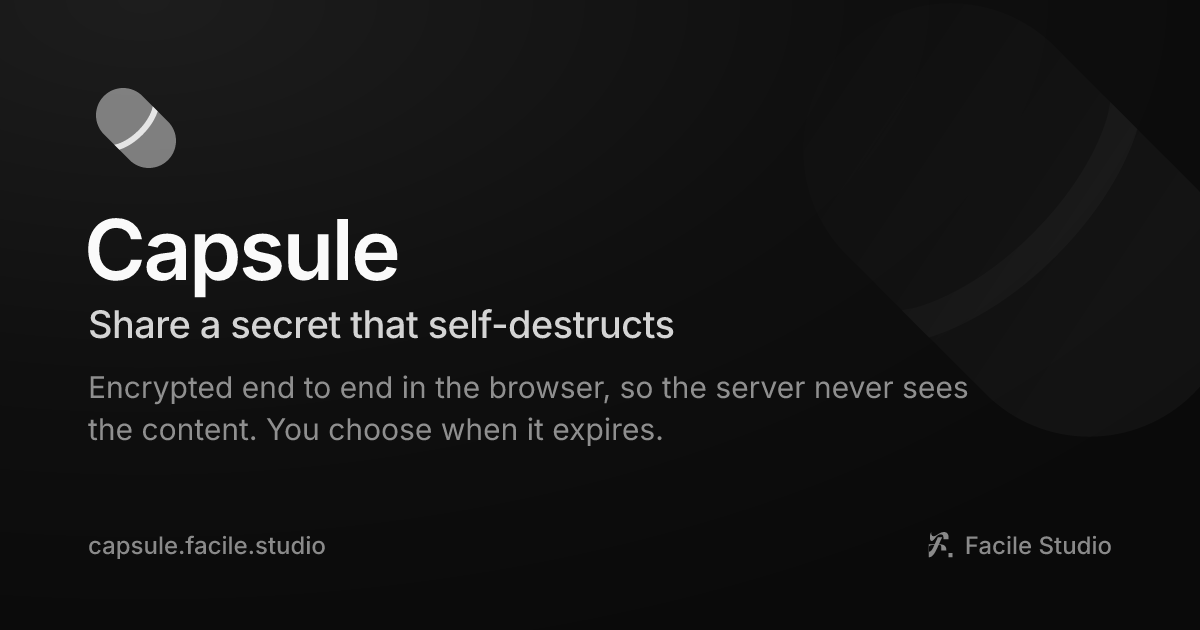
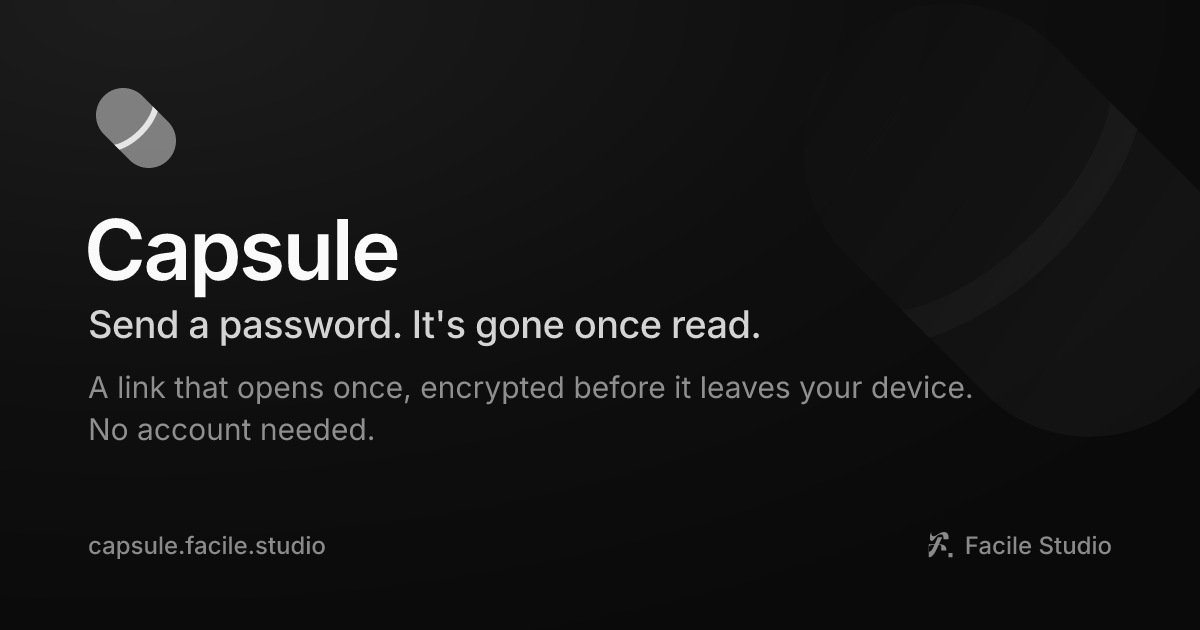
🐛 fix(client): honest free plan button and suite self-hosting link
The Solo card says "Gratuit, sans compte", so its button now seals a
secret on the form above instead of sending people to sign-up. The
developers block links to the Suite self-hosting page instead of the
README. New link preview and manifest from muse v0.25.1.

Changed region(s): [[0.0925, 0.4825, 0.6475, 0.5429], [0.0617, 0.6032, 0.8325, 0.6333], [0.0617, 0.6635, 0.555, 0.7238]]

diff --git a/apps/client/src/lib/i18n/messages/blocks.ts b/apps/client/src/lib/i18n/messages/blocks.ts
@@ -92,10 +92,16 @@ export const blocks = {
 		'Agenten prüfen und widerrufen eine Kapsel über /mcp und lesen nie den Inhalt.'
 	],
 	'blocks.dev.source': [
-		'The code is open. The README explains how to run Capsule yourself.',
-		'Le code est ouvert. Le README explique comment installer Capsule chez vous.',
-		'El código es abierto. El README explica cómo instalar Capsule tú mismo.',
-		'Der Code ist offen. Das README erklärt, wie Sie Capsule selbst betreiben.'
+		'The code is open, on GitHub.',
+		'Le code est ouvert, sur GitHub.',
+		'El código es abierto, en GitHub.',
+		'Der Code ist offen, auf GitHub.'
+	],
+	'blocks.dev.selfHostHref': [
+		'https://suite.facile.studio/en/auto-hebergement',
+		'https://suite.facile.studio/auto-hebergement',
+		'https://suite.facile.studio/es/auto-hebergement',
+		'https://suite.facile.studio/de/auto-hebergement'
 	],
 	'blocks.cta.title': [
 		'One Facile account, the whole suite',

diff --git a/apps/client/src/app.html b/apps/client/src/app.html
@@ -47,7 +47,7 @@
 		<meta property="og:image" content="https://capsule.facile.studio/og-image.png" />
 		<meta property="og:image:width" content="1200" />
 		<meta property="og:image:height" content="630" />
-		<meta property="og:image:alt" content="Capsule: Share a secret that self-destructs" />
+		<meta property="og:image:alt" content="Capsule: Send a password. It’s gone once read." />
 		<meta name="twitter:card" content="summary_large_image" />
 		<meta name="twitter:title" content="Capsule · Send a password. It’s gone once read." />
 		<meta name="twitter:description" content="A link that opens once, encrypted before it leaves your device. No account needed." />

diff --git a/apps/client/src/lib/components/landing/LandingSections.svelte b/apps/client/src/lib/components/landing/LandingSections.svelte
@@ -61,11 +61,13 @@
 		highlightOnly
 		{notes}
 		recommended="pro"
+		freeLabel={t('blocks.cta.seal')}
+		freeHref="/#seal"
 		suiteHref="https://suite.facile.studio/#tarifs"
 	/>
 
 	<div class={block}>
-		<ForDevelopers {rows} description={t('blocks.dev.line')} />
+		<ForDevelopers {rows} selfHostHref={t('blocks.dev.selfHostHref')} description={t('blocks.dev.line')} />
 	</div>
 
 	<section class="{block} flex flex-col items-center gap-4 text-center">
